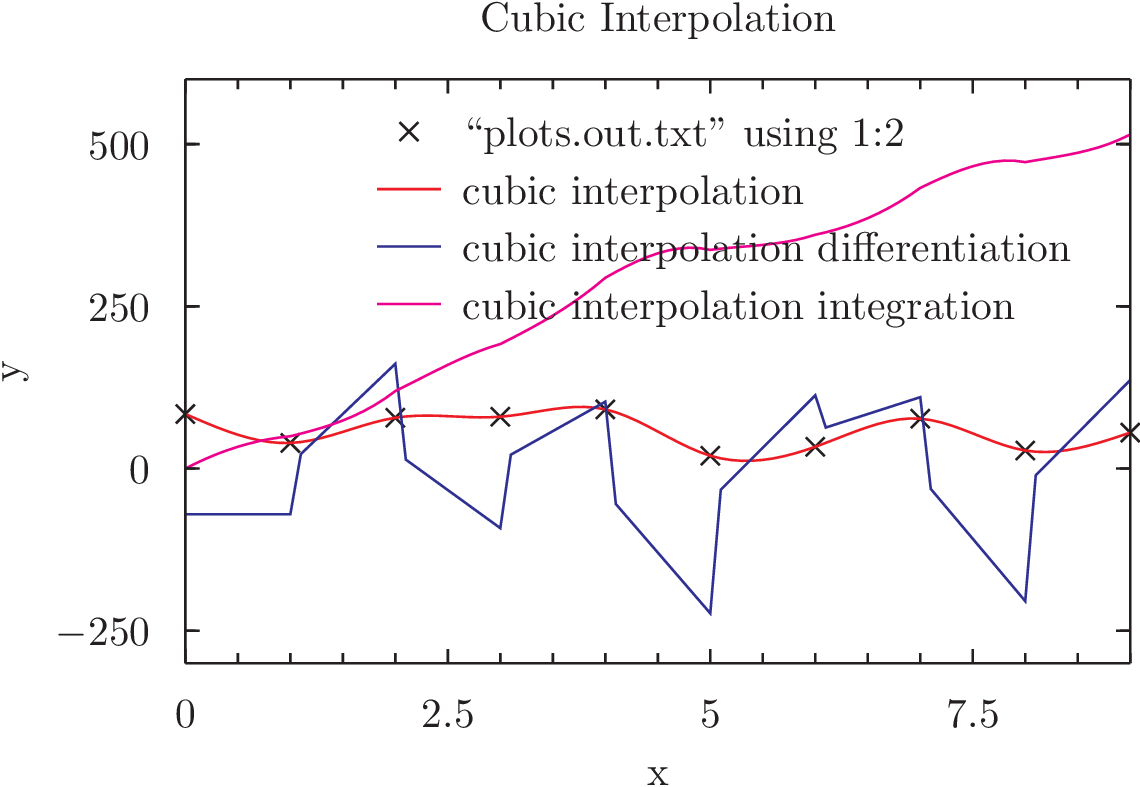
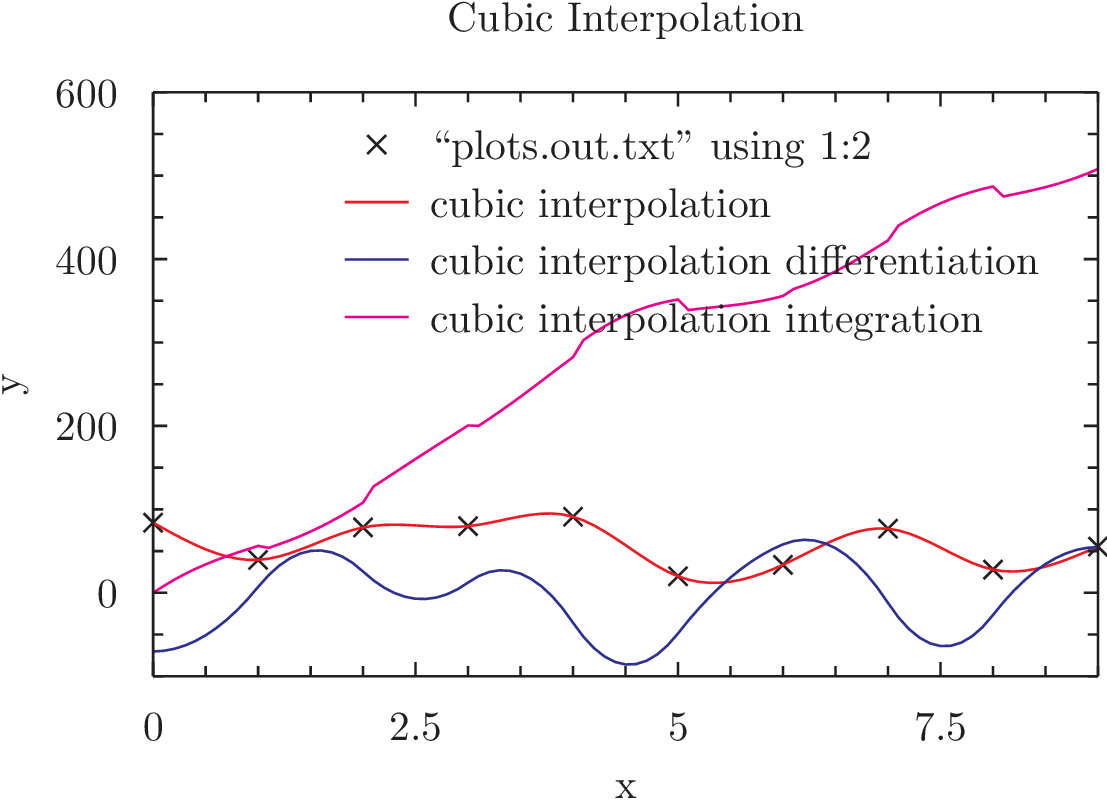
part C done

diff --git a/homeworks/Interpolation/Cubic_Spline/cubic.c b/homeworks/Interpolation/Cubic_Spline/cubic.c
@@ -70,11 +70,12 @@ double cubic_spline_eval(cubic_spline *s, double z){
 }
 
 //now basically use the int and deriv basis from the quad here
+//I was an idiot here and got the equations wrong but I caught the mistake
 double cspline_derivitive(cubic_spline *s, double z){
 	assert (z>=s->x[0] && z<=s->x[s->n-1]); 
 	int i = binsearch(s->n,s->x,z);
 	double dx = z - s->x[i];
-	return s->b[i] + 2*s->c[i]*dx;
+	return s->b[i] + 2*s->c[i]*dx+3*s->d[i]*dx*dx;
 }
 
 double cspline_integ(cubic_spline *s, double z){
@@ -87,7 +88,7 @@ double cspline_integ(cubic_spline *s, double z){
 		integ += dx*(s->y[j] + dx*(s->b[j]/2 + dx*s->c[j]/3));
 	}
 	dx=z-s->x[i];
-	integ += dx*(s->y[i]+dx*(s->b[i]/2+dx*s->c[i]/3));
+	integ += dx*(s->y[i]+dx*(s->b[i]/2+dx*s->c[i]/3+dx*dx*s->d[i]/4));
 	return integ;
 }
 
